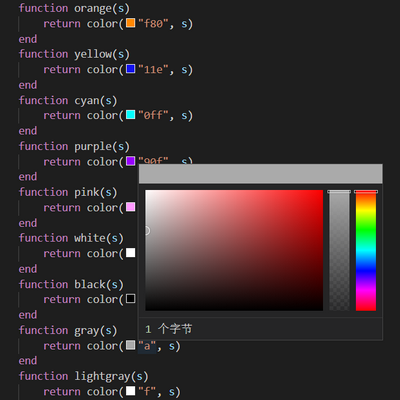
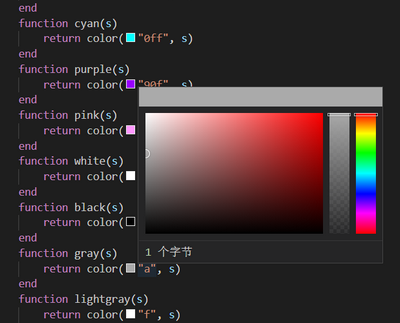
fix issue #1

diff --git a/src/picker.ts b/src/picker.ts
@@ -1,12 +1,15 @@
 import * as vscode from 'vscode';
 import * as config from './config';
 
+const MAX_LINENO = 2**30; // about infinity
+let cfg: config.Config;
+
 function int2hex(i: number, width: number = 2): string {
     let ret = i.toString(16);
     if (ret.length < width) {
         ret = '0'.repeat(width - ret.length) + ret;
     }
-    return ret.substr(0, width);
+    return ret.substring(0, width);
 }
 
 function rgba2gray(r: number, g: number, b: number, a: number): number {
@@ -49,17 +52,17 @@ function line2colorinfos(lineno: number, text: string, cfg: config.Config): vsco
             }
             // calculate color components
             let [r,g,b,a,w] = [0,0,0,255,0];
-            if (rs) { r = +("0x" + (rs+rs+'0').substr(0,2)); }
-            if (gs) { g = +("0x" + (gs+gs+'0').substr(0,2)); }
-            if (bs) { b = +("0x" + (bs+bs+'0').substr(0,2)); }
-            if (as) { a = +("0x" + (as+as+'0').substr(0,2)); }
-            if (ws) { w = +("0x" + (ws+ws+'0').substr(0,2)); }
+            if (rs) { r = +("0x" + (rs+rs+'0').substring(0,2)); }
+            if (gs) { g = +("0x" + (gs+gs+'0').substring(0,2)); }
+            if (bs) { b = +("0x" + (bs+bs+'0').substring(0,2)); }
+            if (as) { a = +("0x" + (as+as+'0').substring(0,2)); }
+            if (ws) { w = +("0x" + (ws+ws+'0').substring(0,2)); }
             // assemble
-            config.debug(`[${detector}] ${match[0]} => ${r},${g},${b},${a},${w} [${rs}/${gs}/${bs}/${as}/${ws}]`);
+            // config.debug(`[${detector}] ${match[0]} => ${r},${g},${b},${a},${w} [${rs}/${gs}/${bs}/${as}/${ws}]`);
             if (w) {// grayscale conquer others
                 [r,b,g,a] = gray2rgba(w);
             }
-            let from =  match.index||0;
+            let from = match.index||0;
             ret.push(new vscode.ColorInformation(
                 new vscode.Range(lineno, from, lineno, from + match[0].length),
                 new vscode.Color(r/255.0, g/255.0, b/255.0, a/255.0)
@@ -72,7 +75,7 @@ function line2colorinfos(lineno: number, text: string, cfg: config.Config): vsco
 
 function vscolor2str(color: vscode.Color, text: string, cfg: config.Config): string|null {
     const [ri, gi, bi, ai] = [color.red*255, color.green*255, color.blue*255, color.alpha*255];
-    const wi = rgba2gray(ri, gi,bi,ai);
+    const wi = rgba2gray(ri,gi,bi,ai);
     let [rs, gs, bs, as, ws] = [int2hex(ri), int2hex(gi), int2hex(bi), int2hex(ai), int2hex(wi)];
     let insert = cfg.insert;
 
@@ -97,23 +100,23 @@ function vscolor2str(color: vscode.Color, text: string, cfg: config.Config): str
         switch (c) {
             case 'R':
                 ret += rs[0];
-                rs = rs.substr(1);
+                rs = rs.substring(1);
                 break;
             case 'G':
                 ret += gs[0];
-                gs = gs.substr(1);
+                gs = gs.substring(1);
                 break;
             case 'B':
                 ret += bs[0];
-                bs = bs.substr(1);
+                bs = bs.substring(1);
                 break;
             case 'A':
                 ret += as[0];
-                as = as.substr(1);
+                as = as.substring(1);
                 break;
             case 'W':
                 ret += ws[0];
-                ws = ws.substr(1);
+                ws = ws.substring(1);
                 break;
             case '!':
                 break;
@@ -123,25 +126,33 @@ function vscolor2str(color: vscode.Color, text: string, cfg: config.Config): str
         }
     }
 
-    config.debug(`${text} => ${ret}`);
+    // config.debug(`${text} => ${ret}`);
     return ret;
 }
 
 class ColorProvider implements vscode.DocumentColorProvider
 {
+    private from = 0;
+    private to = MAX_LINENO;
+    constructor(from?: number, to?: number) { // from & to: lineno, specify ranges
+        this.from = from || this.from;
+        this.to = to || this.to;
+    }
+
     // preview color in the editor
     provideDocumentColors(
         document: vscode.TextDocument,
         token: vscode.CancellationToken
     ): vscode.ProviderResult<vscode.ColorInformation[]>
     {
-        const cfg = config.read();
         let colors:vscode.ColorInformation[] = [];
         for (let i = 0; i < document.lineCount; ++i) {
-            let line = document.lineAt(i).text;
-            colors = colors.concat(line2colorinfos(i, line, cfg));
+            if (i>this.from && i <this.to) {
+                let line = document.lineAt(i).text;
+                colors = colors.concat(line2colorinfos(i, line, cfg));
+            }
         }
-        return colors;
+        return colors; // <= 500, see https://github.com/microsoft/vscode/issues/44615#issuecomment-396497187
     }
 
     // insert string after pick
@@ -152,8 +163,6 @@ class ColorProvider implements vscode.DocumentColorProvider
         ): vscode.ProviderResult<vscode.ColorPresentation[]>
     {
         let text = context.document.getText(context.range);
-
-        const cfg = config.read();
         let clrstr: string|null = null;
         if (text) {
             clrstr = vscolor2str(color, text, cfg);
@@ -168,19 +177,50 @@ class ColorProvider implements vscode.DocumentColorProvider
 
 // init and deinit
 
+let listener0:vscode.Disposable;
 let listeners:vscode.Disposable[] = [];
+let last_visible_start = -1;
+const ANTI_SHAKE = 20;
 
-export function activate(cfg: config.Config) {
+function updateColorProvider() {
+    let range = vscode.window.activeTextEditor?.visibleRanges[0];
+    if (!range) { return; }
+    const from = range.start.line;
+    const to = range.end.line;
+    if (Math.abs(from-last_visible_start) < ANTI_SHAKE) { return; }
+    last_visible_start = from;
+    // update: re-register color provider
+    for (const listener of listeners) {
+        listener.dispose();
+    }
+    listeners = [];
+    let cp = new ColorProvider(from-ANTI_SHAKE, to+ANTI_SHAKE);
     for (const file of cfg.files) {
-        listeners.push(vscode.languages.registerColorProvider({pattern: file}, new ColorProvider));
+        listeners.push(vscode.languages.registerColorProvider({pattern: file}, cp));
     }
-    for (const lang of cfg.langs) {
-        listeners.push(vscode.languages.registerColorProvider(lang, new ColorProvider));
-    }
+    listeners.push(vscode.languages.registerColorProvider(cfg.langs, cp));
+}
+
+export function activate() {
+    cfg = config.read();
+    updateColorProvider();
+    listener0 = vscode.window.onDidChangeTextEditorVisibleRanges((event)=>{
+        let editor = event.textEditor;
+        // file filter
+        let matched = vscode.languages.match(cfg.langs, editor.document) > 0;
+        for (const file of cfg.files) {
+            matched=matched || vscode.languages.match({pattern: file}, editor.document) > 0;
+            if (matched) { break; }
+        }
+        if (!matched) { return; }
+        // update
+        updateColorProvider();
+    });
 }
 
 export function deactivate() {
     for (const listener of listeners) {
         listener.dispose();
     }
+    listener0.dispose();
 }

diff --git a/src/config.ts b/src/config.ts
@@ -2,7 +2,7 @@ import * as vscode from 'vscode';
 
 export const name = "Zeng's Color-picker";
 export const id = "zeng-color-picker";
-export const release = true;
+export const release = true;// turn on(false) or off(true) debug message
 
 export function debug(message?: any, ...optionalParams: any[]): void {
     if (!release) {
@@ -16,6 +16,7 @@ export function toast(message: string, ...items: string[]): void {
 }
 
 function escapeRegExp(s: string): string {
+    // $&: matched part
     return s.replace(/[.*+?^${}()|[\]\\]/g, '\\$&').replace('!', '(?=(^|\\b|$))');
 }
 

diff --git a/src/extension.ts b/src/extension.ts
@@ -10,11 +10,11 @@ export function activate(context: vscode.ExtensionContext) {
 	// This line of code will only be executed once when your extension is activated
 	config.debug(config.name + " is active.");
 	config.toast(config.name + " is active.");
-	picker.activate(config.read());
+	picker.activate();
 	// Apply settings as soon as changed.
 	let dispose = vscode.workspace.onDidChangeConfiguration(()=>{
 		picker.deactivate();
-		picker.activate(config.read());
+		picker.activate();
 	});
 	context.subscriptions.push(dispose);
 }

diff --git a/README.md b/README.md
@@ -2,7 +2,7 @@
 
 This color picker is an extension of vscode.
 
-![icon](res/icon.png)
+If you encounter any problem, please [let us know](https://github.com/zengfanfan/ColorPicker/issues).
 
 ## Features
 
@@ -12,8 +12,6 @@ This color picker is an extension of vscode.
 
 ![screenshot_1](res/screenshot_1.png)
 ![screenshot_2](res/screenshot_2.png)
-
-> Tip: Many popular extensions utilize animations. This is an excellent way to show off your extension! We recommend short, focused animations that are easy to follow.
 
 ## Settings
 

diff --git a/CHANGELOG.md b/CHANGELOG.md
@@ -2,6 +2,10 @@
 
 All notable changes to the extension will be documented in this file.
 
+### 0.0.8 - 2023-9-23
+
+1. fix issue #1 (Color picker works only for a section of a file)
+
 ### 0.0.2 - 2021-11-11
 
 1. use ! to announce word boundary.
